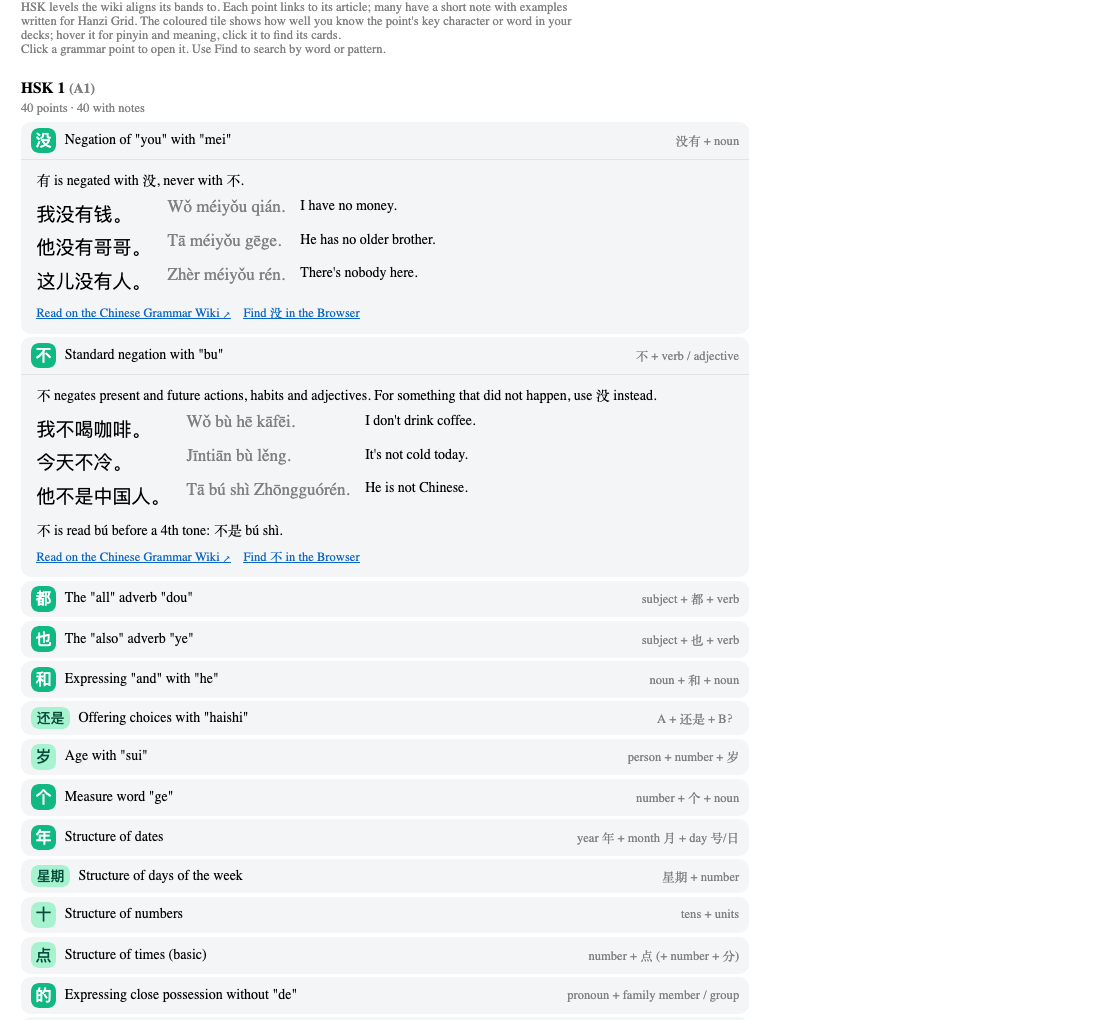
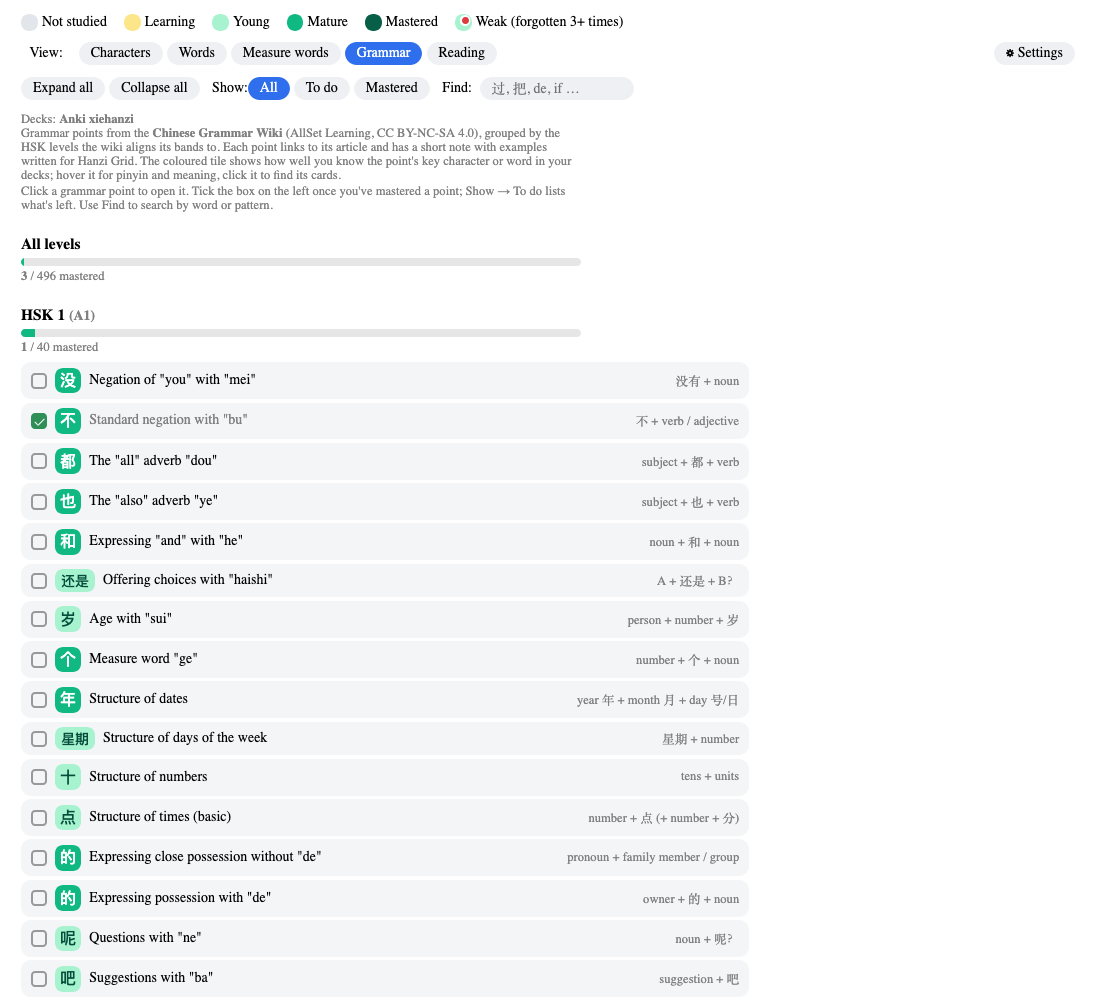
Hanzi Grid 1.7.0: grammar checklist
A checkbox on every grammar point to mark it as mastered, live
"N / M mastered" progress for all levels and per level, and a Show
filter (All / To do / Mastered). Ticks are stored in the collection
config (hanziGridGrammarDone) so they sync with AnkiWeb.

diff --git a/ankiweb_description.html b/ankiweb_description.html
@@ -12,7 +12,7 @@
 <b>Features</b>
 <ul>
 <li>One tile per character, coloured by your best card containing it: not studied, learning, young, mature, and <b>mastered</b> (a 3+ month interval and 3 correct reviews in a row). Only your answers count: Set due date doesn't change the colour, and suspended cards are ignored. 学 turns green once you know 学习 <i>or</i> 学生.</li>
-<li><b>Five views.</b> Characters, grouped by the <b>official HSK 3.1 character list</b> (2025 HSK syllabus) or by your deck's word levels; <b>Words</b>, one tile per word grouped by the words' HSK levels, which is what the exam counts; <b>Measure words</b>: words grouped by the classifier they take (本 → 书, 课本, 杂志 …), with the measure word's own tile and progress bar; and <b>Grammar</b>: the grammar points of each level (from the Chinese Grammar Wiki, with links), each with a short note and example sentences, and a tile showing how well you know each point's key word (过, 着, 的, 得, 地, 把, 被 …); and <b>Reading</b>: paste any Chinese text to see every character coloured by your status, how much of it you've studied, and the words to learn by level.</li>
+<li><b>Five views.</b> Characters, grouped by the <b>official HSK 3.1 character list</b> (2025 HSK syllabus) or by your deck's word levels; <b>Words</b>, one tile per word grouped by the words' HSK levels, which is what the exam counts; <b>Measure words</b>: words grouped by the classifier they take (本 → 书, 课本, 杂志 …), with the measure word's own tile and progress bar; and <b>Grammar</b>: the grammar points of each level (from the Chinese Grammar Wiki, with links), each with a short note and example sentences, a tile showing how well you know each point's key word (过, 着, 的, 得, 地, 把, 被 …), and a checkbox to tick once you've mastered a point, with progress per level and a To do filter; and <b>Reading</b>: paste any Chinese text to see every character coloured by your status, how much of it you've studied, and the words to learn by level.</li>
 <li>A <b>summary under the deck list</b>: one bar per level, "+N this week" and an Open link (can be turned off).</li>
 <li>A progress bar for each level and for all levels together, with <b>"+N this week"</b>.</li>
 <li><b>Hover</b> a tile to see its pinyin and meaning.</li>
@@ -21,7 +21,7 @@
 <li>A red dot marks <b>weak</b> tiles you keep forgetting. A <b>Show</b> filter and a <b>Find</b> box.</li>
 <li>Two looks, Modern and Classic (Settings → Look), both with night mode.</li>
 <li>Settings window: choose decks, level source, fields and the mature, mastered and weak thresholds.</li>
-<li>Read-only and offline: it never changes your cards and sends nothing anywhere.</li>
+<li>Offline and safe: it never changes your cards or notes and sends nothing anywhere. Ticked grammar points are saved in your collection, so they sync.</li>
 </ul>
 
 <img src="https://raw.githubusercontent.com/bpachniewsk1/anki-hanzi-grid/main/screenshots/words.png" alt="Words view: one tile per word, grouped by HSK level">

diff --git a/__init__.py b/__init__.py
@@ -192,6 +192,19 @@ body[data-show="weak"] .grid .tile:not(.weak) { display: none; }
 .gp .links a { margin-right: 1em; cursor: pointer; color: var(--fg-link, #0a66c2); text-decoration: underline; }
 .gp .todo { color: var(--fg-subtle, gray); font-style: italic; }
 .gcount { color: var(--fg-subtle, gray); font-size: .9em; margin: .2em 0 .5em; }
+.gprog { max-width: 52em; margin-bottom: .5em; }
+.gcheck {
+  flex: none; width: 1.15em; height: 1.15em; border-radius: 4px; cursor: pointer;
+  border: 2px solid var(--fg-subtle, #999); box-sizing: border-box; position: relative;
+}
+.gcheck:hover { border-color: var(--fg, black); }
+.gp.done .gcheck { background: #2f8f57; border-color: #2f8f57; }
+.gp.done .gcheck::after {
+  content: ""; position: absolute; left: .32em; top: .08em; width: .3em; height: .6em;
+  border: solid #fff; border-width: 0 .14em .14em 0; transform: rotate(45deg);
+}
+.gp.done summary > span:not(.tile):not(.gcheck):not(.pat) { color: var(--fg-subtle, gray); }
+body[data-gshow="todo"] .gp.done, body[data-gshow="done"] .gp:not(.done) { display: none; }
 
 /* The Measure words view: one collapsible block per measure word, with
    a tinted heading, and inside it one row per level. */
@@ -343,6 +356,37 @@ if (find) find.addEventListener("input", () => {
   }
 });
 
+// Grammar checkboxes. preventDefault stops the click from also opening
+// the point. Python stores the ticked points (see on_bridge_cmd).
+function updateGrammarCounts() {
+  for (const prog of document.querySelectorAll(".gprog")) {
+    const band = prog.dataset.band;
+    const sel = band === "all" ? ".gp.done" : `.gp.done[data-band="${CSS.escape(band)}"]`;
+    const n = document.querySelectorAll(sel).length;
+    prog.querySelector(".gdone-n").textContent = n;
+    prog.querySelector(".bar > div").style.width = (100 * n / prog.dataset.total).toFixed(2) + "%";
+  }
+}
+document.addEventListener("click", (event) => {
+  const box = event.target.closest(".gcheck");
+  if (box) {
+    event.preventDefault();
+    event.stopPropagation();
+    const point = box.closest(".gp");
+    const ticked = !point.classList.contains("done");
+    point.classList.toggle("done", ticked);
+    box.setAttribute("aria-checked", ticked ? "true" : "false");
+    updateGrammarCounts();
+    pycmd(`gdone:${ticked ? 1 : 0}:${point.dataset.id}`);
+    return;
+  }
+  const pill = event.target.closest("[data-gshow]");
+  if (pill) {
+    document.body.dataset.gshow = pill.dataset.gshow;
+    for (const p of document.querySelectorAll("[data-gshow]")) p.classList.toggle("on", p === pill);
+  }
+}, true);
+
 // Expand / collapse every grammar point.
 document.addEventListener("click", (event) => {
   const button = event.target.closest("[data-open]");
@@ -423,7 +467,11 @@ CLICK_HINTS = {
         "side of its card; Shift+click to open the Browser. A red dot marks "
         "words you keep forgetting."
     ),
-    GRAMMAR: "Click a grammar point to open it. Use Find to search by word or pattern.",
+    GRAMMAR: (
+        "Click a grammar point to open it. Tick the box on the left once you've "
+        "mastered a point; Show → To do lists what's left. Use Find to search "
+        "by word or pattern."
+    ),
     MEASURE: (
         "Hover a word for its pinyin and meaning. Click it to see the answer "
         "side of its card; Shift+click to open the Browser."
@@ -579,7 +627,7 @@ def pills(choices, current: str, command: str) -> str:
     return "".join(parts)
 
 
-def build_html(grid: grid_data.Grid, config: dict) -> str:
+def build_html(grid: grid_data.Grid, config: dict, grammar_done: set | None = None) -> str:
     """Turn the Grid from grid_data.collect() into an HTML page body."""
     view = config.get("view", CHARS)
     levels = config.get("levels", OFFICIAL)  # OFFICIAL or FROM_DECK
@@ -605,6 +653,10 @@ def build_html(grid: grid_data.Grid, config: dict) -> str:
     parts.append("<div class='tools'>")
     if view == GRAMMAR:
         parts.append("<span class='pill' data-open='1'>Expand all</span><span class='pill' data-open='0'>Collapse all</span>")
+        parts.append("<span class='label'>Show:</span>")
+        for value, text in (("all", "All"), ("todo", "To do"), ("done", "Mastered")):
+            on = " on" if value == "all" else ""
+            parts.append(f"<span class='pill{on}' data-gshow='{value}'>{text}</span>")
         parts.append("<span class='label'>Find:</span><input id='find' type='search' placeholder='过, 把, de, if …'>")
     elif view == READING:
         parts.append("<span class='pill' data-read='analyse'>Analyse</span><span class='pill' data-read='sample'>Sample text</span><span class='pill' data-read='clear'>Clear</span>")
@@ -631,7 +683,7 @@ def build_html(grid: grid_data.Grid, config: dict) -> str:
 
     if view in (GRAMMAR, MEASURE, READING):
         if view == GRAMMAR:
-            parts.append(grammar_html(grid, config))
+            parts.append(grammar_html(grid, config, grammar_done))
         elif view == MEASURE:
             parts.append(measure_html(grid, config))
         else:
@@ -875,6 +927,24 @@ READING_JS = r"""
 """
 
 
+# The grammar points you've ticked, stored in the collection's own config
+# (not the add-on's), so they sync with AnkiWeb and survive reinstalling.
+GRAMMAR_DONE_KEY = "hanziGridGrammarDone"
+
+
+def load_grammar_done() -> set:
+    return set(mw.col.get_config(GRAMMAR_DONE_KEY, []) or [])
+
+
+def save_grammar_done(point_id: str, ticked: bool) -> None:
+    done = load_grammar_done()
+    if ticked:
+        done.add(point_id)
+    else:
+        done.discard(point_id)
+    mw.col.set_config(GRAMMAR_DONE_KEY, sorted(done))
+
+
 _grammar = None  # (index, points) once loaded
 
 
@@ -905,8 +975,22 @@ def key_tile_html(key: str, grid: grid_data.Grid, config: dict) -> str:
     return f"<span class='tile s0 w'>{escape(key)}</span>"
 
 
-def grammar_html(grid: grid_data.Grid, config: dict) -> str:
-    """The Grammar view: every point by level, as collapsible blocks."""
+def grammar_progress(done: int, total: int, band: str) -> str:
+    """"12 / 40 mastered" with a small bar; the page script keeps it up to
+    date when you tick a point."""
+    width = 100 * done / total if total else 0
+    return (
+        f"<div class='gprog' data-band='{escape(band, quote=True)}' data-total='{total}'>"
+        f"<div class='bar'><div class='s3' style='width:{width:.2f}%'></div></div>"
+        f"<div class='counts'><b class='gdone-n'>{done}</b> / {total} mastered</div></div>"
+    )
+
+
+def grammar_html(grid: grid_data.Grid, config: dict, done: set | None = None) -> str:
+    """The Grammar view: every point by level, as collapsible blocks, each
+    with a checkbox you tick once you've mastered it (`done` holds the ids
+    of the ticked points)."""
+    done = done or set()
     index, points = load_grammar()
     # Notes with their own url and level (not in the wiki index) join the
     # level they name.
@@ -914,16 +998,28 @@ def grammar_html(grid: grid_data.Grid, config: dict) -> str:
     for key, note in points.items():
         if "url" in note:
             extra.setdefault(note.get("level", 3), []).append((key, note))
-    parts = []
+    bands = []
     for band in index:
         items = [(p["id"], p["title"], points.get(p["id"])) for p in band["points"]]
         items += [(key, note.get("title", key), note) for key, note in extra.get(band["level"], [])]
-        with_notes = sum(1 for _, _, note in items if note)
-        parts.append(f"<h2>{escape(band['label'])} <span class='gcount'>({escape(band['cefr'])})</span></h2>")
-        parts.append(f"<div class='gcount'>{len(items)} points · {with_notes} with notes</div>")
+        bands.append((band, items))
+    every = [key for _, items in bands for key, _, _ in items]
+    parts = ["<h2>All levels</h2>", grammar_progress(sum(1 for k in every if k in done), len(every), "all")]
+    for band, items in bands:
+        label = band["label"]
+        parts.append(f"<h2>{escape(label)} <span class='gcount'>({escape(band['cefr'])})</span></h2>")
+        parts.append(grammar_progress(sum(1 for k, _, _ in items if k in done), len(items), label))
         for key, title, note in items:
             url = (note or {}).get("url") or WIKI_URL + key
-            parts.append("<details class='gp'><summary>")
+            ticked = key in done
+            parts.append(
+                f"<details class='gp{' done' if ticked else ''}' data-id='{escape(key, quote=True)}' "
+                f"data-band='{escape(label, quote=True)}'><summary>"
+            )
+            parts.append(
+                f"<span class='gcheck' role='checkbox' aria-checked='{'true' if ticked else 'false'}' "
+                "title='Tick when you have mastered this point'></span>"
+            )
             parts.append(key_tile_html((note or {}).get("key", ""), grid, config))
             parts.append(f"<span>{escape(title)}</span>")
             if note:
@@ -1007,7 +1103,7 @@ class HanziGridDialog(QDialog):
         restoreGeom(self, "hanziGrid", default_size=(900, 700))
         # js=[] means: don't load jQuery, we don't need it.
         self.web.stdHtml(
-            build_html(grid, config),
+            build_html(grid, config, load_grammar_done() if config.get("view") == GRAMMAR else None),
             css=[],
             js=[],
             head=f"<style>{CSS}{themes.theme(config)['css']}</style>",
@@ -1048,6 +1144,10 @@ class HanziGridDialog(QDialog):
         elif cmd.startswith("search:"):
             browser = aqt.dialogs.open("Browser", mw)
             browser.search_for(self.search_for_text(cmd[len("search:"):]))
+        elif cmd.startswith("gdone:"):
+            # "gdone:1:<point id>" ticks a grammar point, "gdone:0:…" unticks.
+            flag, _, point_id = cmd[len("gdone:"):].partition(":")
+            save_grammar_done(point_id, flag == "1")
         elif cmd.startswith("link:"):
             openLink(cmd[len("link:"):])
 

diff --git a/README.md b/README.md
@@ -36,7 +36,9 @@ it, with a progress bar for each level.
   in every view show a word's measure word. *Grammar* lists the grammar points of each level (from
   the Chinese Grammar Wiki, with links), each with a short note and
   example sentences; the tile next to each point shows how well you know
-  its key character or word (过, 着, 的, 得, 地, 把, 被 …). *Reading*:
+  its key character or word (过, 着, 的, 得, 地, 把, 被 …), and a
+  **checkbox to tick once you've mastered it**, with "12 / 40 mastered"
+  per level and a *To do* filter for what's left. *Reading*:
   paste any Chinese text and see every character coloured by your status,
   "78 % of characters / 75 % of words studied", and the words you haven't
   studied listed by level, each a click away from its card. Nothing leaves
@@ -216,8 +218,11 @@ Open an issue at https://github.com/bpachniewsk1/anki-hanzi-grid/issues. Please 
 ## Privacy
 
 Hanzi Grid works offline. It sends nothing anywhere, collects no data and
-only reads your collection. The only thing it writes is its own settings, in
-`meta.json` in the add-on folder (Anki's usual place for add-on settings).
+only reads your cards and notes. It writes two things: its own settings, in
+`meta.json` in the add-on folder (Anki's usual place for add-on settings),
+and the list of grammar points you've ticked, saved in your collection's
+settings under `hanziGridGrammarDone` so it syncs with AnkiWeb like the rest
+of your collection.
 
 ## Known limits
 

diff --git a/CHANGELOG.md b/CHANGELOG.md
@@ -1,5 +1,14 @@
 # Changelog
 
+## 1.7.0 (2026-11-18)
+
+- **Grammar checklist**: a checkbox on every grammar point to tick once
+  you've mastered it. "N / M mastered" with a bar for all levels and for
+  each level, updated as you tick; Show → To do / Mastered filters the
+  list. The ticks are saved in your collection's settings (key
+  `hanziGridGrammarDone`), so they sync with AnkiWeb and survive
+  reinstalling the add-on.
+
 ## 1.6.0 (2026-11-17)
 
 - **Reading view**: paste any Chinese text. The words are matched against
